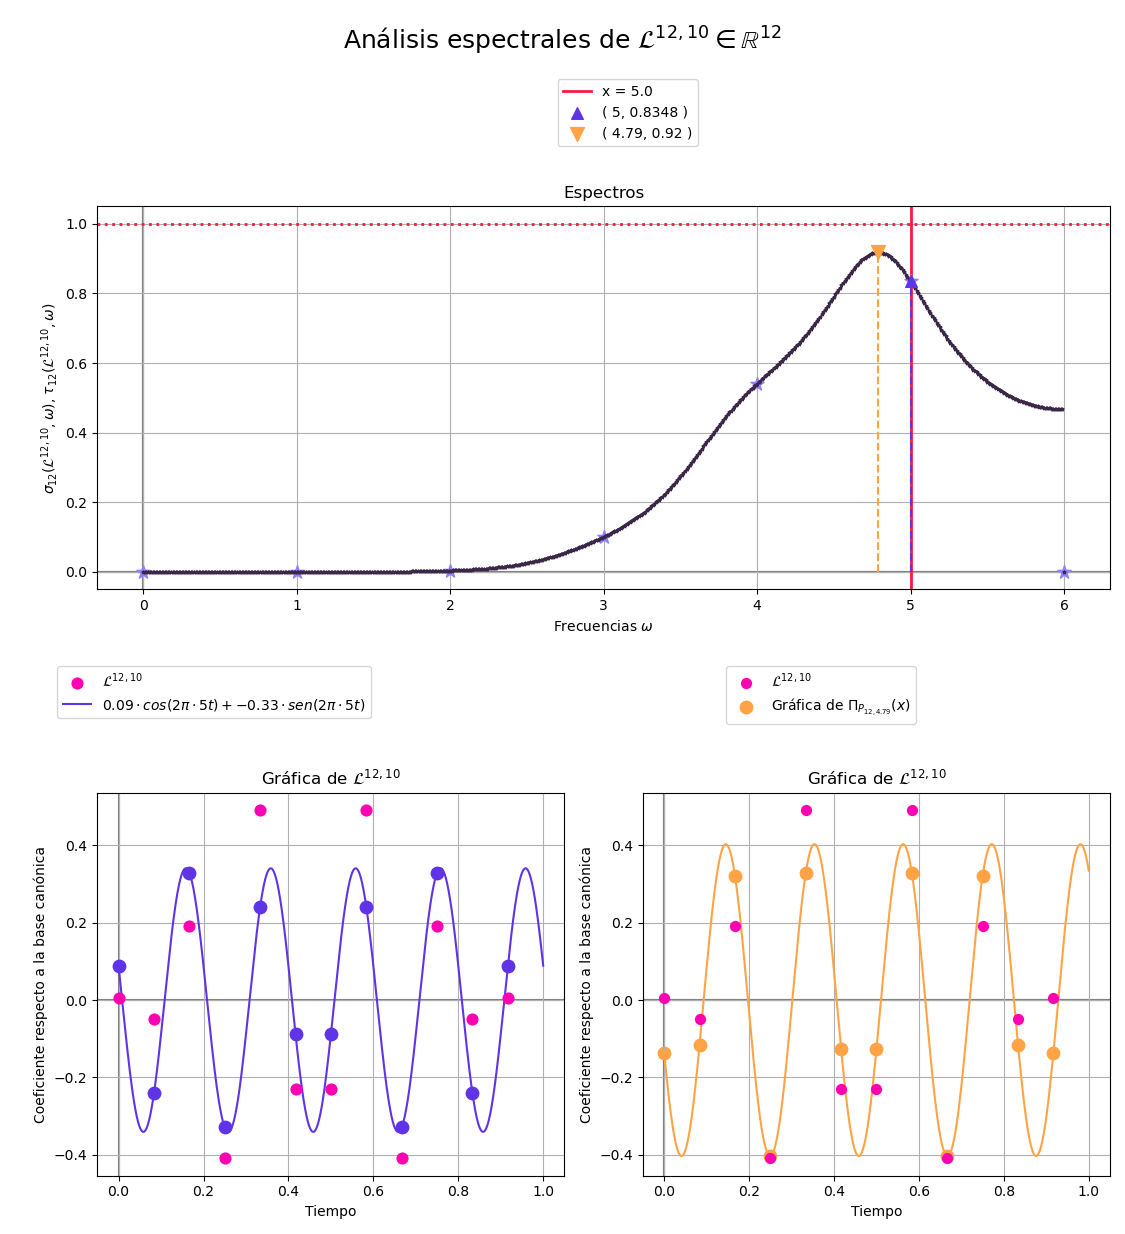
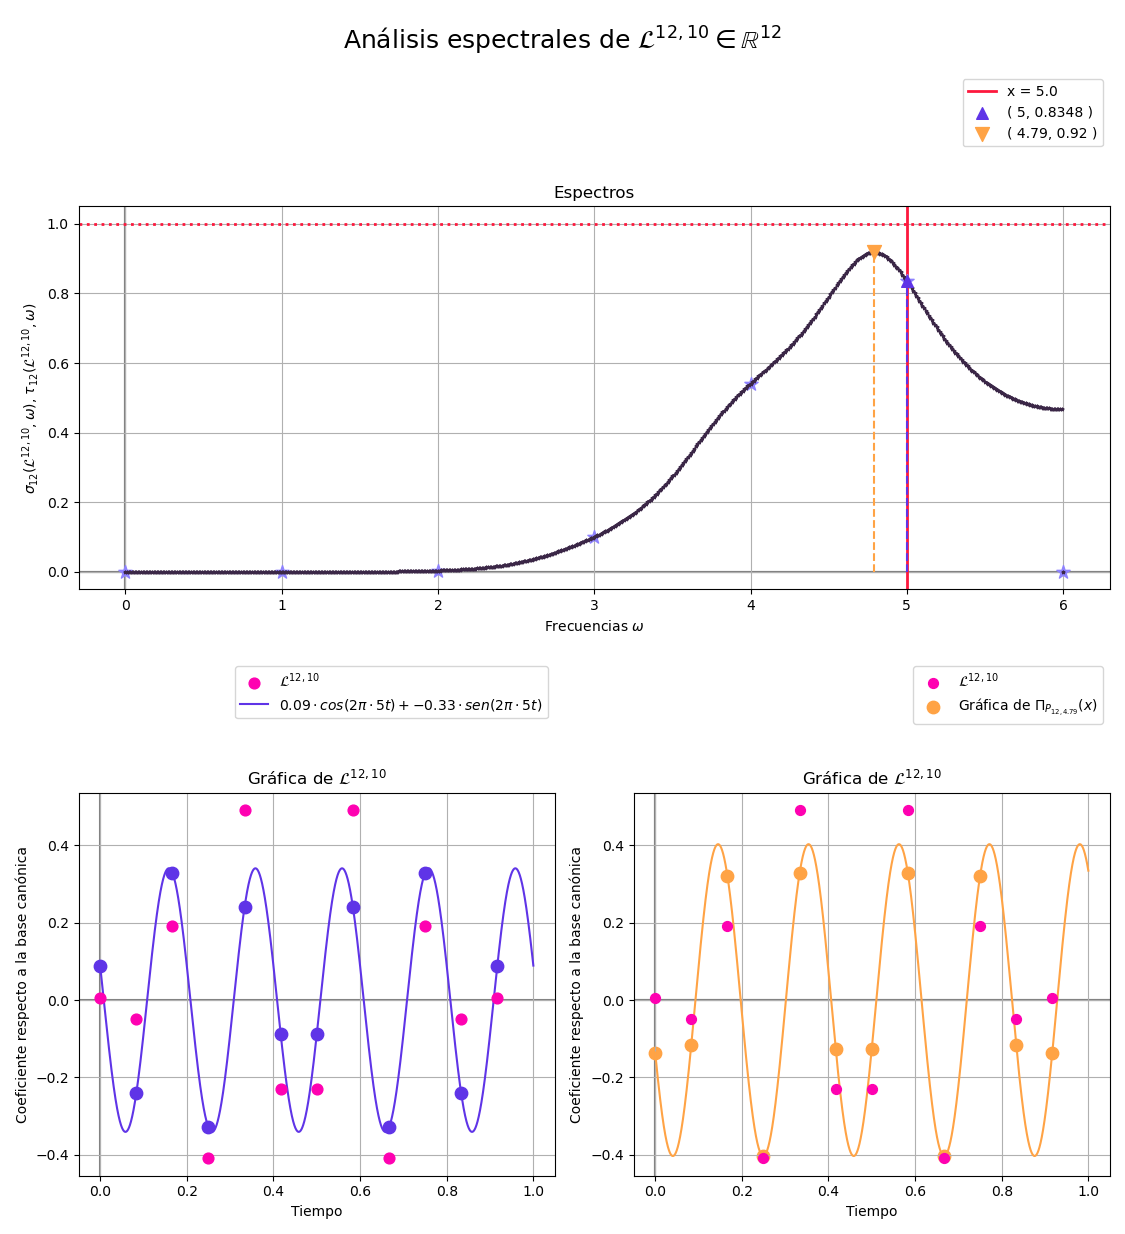
nuevo formato axis

diff --git a/scripts/analisis_espectrales.py b/scripts/analisis_espectrales.py
@@ -41,25 +41,26 @@ El orden de los colores es:
     8: Color para lineas de referencia
 """
 
-
-def formato_axis_derecha(axis):
+#Este formato de axis lo uso para los espectros
+def formato_axis(axis):
   """
   Agregando los elementos que me gustan a un axis
   """
   axis.axhline(y=0, color='gray', zorder = 0)
   axis.axvline(x=0, color='gray', zorder = 0)
   axis.grid(True)
-  axis.legend()
+  axis.legend(loc = 'best')
   #axis.legend(loc = 'lower right')
 
-def formato_axis_izquierda(axis):
+#Este formato de axis lo uso para las gráficas de los sinusoides
+def formato_axis_leyenda_exterior(axis):
   """
   Agregando los elementos que me gustan a un axis
   """
   axis.axhline(y=0, color='gray', zorder = 0)
   axis.axvline(x=0, color='gray', zorder = 0)
   axis.grid(True)
-  axis.legend(loc = 'best', bbox_to_anchor = (1, 1.35))
+  axis.legend(loc = 'best', bbox_to_anchor = (0.7, 1.35))
   #axis.legend(loc = 'upper left', frameon = False)
   
 #def formato_axis_legendaAfuera_2col(axis):
@@ -78,7 +79,15 @@ def formato_axis_izquierda(axis):
 #  axis.legend(bbox_to_anchor = (1.1, 1.05), loc = 'center left')
 
 
-#  ---------------------------------------- TDF ----------------------------------------
+"""
+#  ---------------------------------------- -- ----------------------------------------
+
+				CÁLCULOS PARA REALIZAR EL PRIMER
+			      ANÁLISIS ESPETRAL (BASADO EN LA TDF)
+
+#  ---------------------------------------- -- ----------------------------------------
+"""
+
 
 #Funciones coseno y coseno a partir de las que se construye todo lo que sigue.
 def c_w(n,t, w):
@@ -191,7 +200,7 @@ def coeficientes_tau(x):
       return taus
 
 
-def grafica_taus_axis(x, n, nombre, axis1, axis2, legend_derecha = True):
+def grafica_taus_axis(x, n, nombre, axis1, axis2):
   """
   'x' es un array de dimensión mayor a dos. 
   Esta función dibuja la gráfica de 'x' con dominio el tiempo, junto
@@ -248,12 +257,10 @@ def grafica_taus_axis(x, n, nombre, axis1, axis2, legend_derecha = True):
       axis1.scatter(dominio, [coef_cos * np.cos(2*pi*max_w*t)+coef_sen* np.sin(2*pi*max_w*t) for t in dominio], zorder=2, color = colores[3], s=80)
       axis1.plot(X, coef_cos * np.cos(2*pi*max_w*X) + coef_sen * np.sin(2*pi*max_w*X), color = colores[3], label = r'${{{0}}} \cdot cos(2 \pi \cdot {{{1}}} t) + {{{2}}} \cdot sen(2 \pi \cdot {{{1}}} t) $'.format(str(round(coef_cos,2)), str(max_w), str(round(coef_sen,2))))
   
-  if legend_derecha == True:
-    formato_axis_derecha(axis1)
-    formato_axis_derecha(axis2)
-  else:
-    formato_axis_izquierda(axis1)
-    formato_axis_izquierda(axis2)
+
+  formato_axis_leyenda_exterior(axis1)
+  formato_axis(axis2)
+
 
 
 
@@ -327,7 +334,7 @@ def amplDesfase_caso1(x,w):
     phi = (tan + 2*pi)/(2*pi)
   return A, phi
 
-def grafica_sigma_amplDesfase_axis_caso1(x, w, axis, label_derecha = True):
+def grafica_sigma_amplDesfase_axis_caso1(x, w, axis):
   """
   Se dibujan la gráfica de x junto con la de su proyección al espacio de frecuencias P_{w}.
 
@@ -348,10 +355,8 @@ def grafica_sigma_amplDesfase_axis_caso1(x, w, axis, label_derecha = True):
   
   X=np.arange(0, 1, 0.0001)
   axis.plot(X, coseno_amplDes(X), color=colores[2])
-  if label_derecha == True:
-    formato_axis_derecha(axis)
-  else:
-    formato_axis_izquierda(axis)
+
+  formato_axis_leyenda_exterior(axis)
 
 #Funciones para el caso 2
 
@@ -382,7 +387,7 @@ def amplDesfase_caso2(x,w):
   A = q/math.sqrt(n)
   return A, 0
 
-def grafica_sigma_amplDesfase_axis_caso2(x, w, axis, label_derecha = True):
+def grafica_sigma_amplDesfase_axis_caso2(x, w, axis):
   """
   Se dibujan la gráfica de x junto con la de su proyección al espacio de frecuencias P_{w}.
 
@@ -403,10 +408,8 @@ def grafica_sigma_amplDesfase_axis_caso2(x, w, axis, label_derecha = True):
   
   X=np.arange(0, 1, 0.0001)
   axis.plot(X, coseno_amplDes(X), color=colores[2])
-  if label_derecha == True:
-    formato_axis_derecha(axis)
-  else:
-    formato_axis_izquierda(axis)
+
+  formato_axis_leyenda_exterior(axis)
 
 
 def analisis_espectral_espaciosMonofrecuenciales(x, n, frecuencias, nombre, axis0, axis1, legenda_derecha = True):
@@ -451,12 +454,10 @@ def analisis_espectral_espaciosMonofrecuenciales(x, n, frecuencias, nombre, axis
   axis1.set_xlabel('Frecuencias ' + r'$\omega$')
   axis1.set_ylabel(r'$\sigma_{{{0}}}($'.format(str(n))+"${0}$".format(nombre)+ r'$, \omega)$' + r', $\tau_{{{0}}}($'.format(str(n))+"${0}$".format(nombre)+ r'$, \omega)$') 
 
-  if legenda_derecha == True:
-    formato_axis_derecha(axis0)
-    formato_axis_derecha(axis1)
-  else:
-    formato_axis_izquierda(axis0)
-    formato_axis_izquierda(axis1)
+
+  formato_axis_leyenda_exterior(axis0)
+  formato_axis(axis1)
+
 
  
 # ---------------------- Análisis espectrales para cualquier señal finita  -----------------------------------
@@ -494,7 +495,8 @@ def analisis_espectrales_guardarGrafica(x, frecuencias, nombre):
   """
   n = len(x) #TODO pasar como argumento a las otras funciones! 
   fig, axis = plt.subplots(2,2)
-  fig.set_size_inches(11.25, 12.34) 
+  #fig.set_size_inches(11.25, 12.34) #esta está muy bien!
+  fig.set_size_inches(14, 15.36)
   #fig.tight_layout(pad=0.4)
   
   analisis_espectral_espaciosMonofrecuenciales(x,n, frecuencias, nombre, axis[1,0], axis[1,1])
@@ -504,7 +506,7 @@ def analisis_espectrales_guardarGrafica(x, frecuencias, nombre):
   
   
 # ------------------------------------- Análisis espectrales de los PDL ------------------------------------
-def analisis_espectrales_PDL_mostrarGrafica(n, k, label_derecha = True):
+def analisis_espectrales_PDL_mostrarGrafica(n, k):
   """
   'x' (tipo array) tiene las mediciones.
   'frecuencias' (tipo array) es un array de frecuencias.
@@ -528,15 +530,16 @@ def analisis_espectrales_PDL_mostrarGrafica(n, k, label_derecha = True):
   ax2.axvline(x = k/2, color = colores[8], linewidth = 2, label = "x = " + str(k/2))
   ax2.axhline(y = 1, color = colores[8], linewidth = 2, linestyle = 'dotted')
 
-  grafica_taus_axis(x, n, nombre, ax0, ax2, label_derecha)
-  analisis_espectral_espaciosMonofrecuenciales(x, n, frecuencias, nombre, ax1, ax2, label_derecha)
+  grafica_taus_axis(x, n, nombre, ax0, ax2)
+  analisis_espectral_espaciosMonofrecuenciales(x, n, frecuencias, nombre, ax1, ax2)
 
   fig.suptitle('Análisis espectrales de ' + "${0}$".format(nombre) + r'$\in \mathbb{{R}}^{{{0}}}$'.format(str(n)), fontsize = 18)
-  fig.tight_layout(pad=0.2, w_pad=0.2, h_pad=0.5)
+  #fig.tight_layout(pad=0.2, w_pad=0.2, h_pad=0.5)
+  fig.tight_layout()
   #fig.tight_layout(top=0.914, bottom=0.058, left=0.041, right=0.992, hspace=0.202, wspace=0.09)
   return plt.show()
 
-def analisis_espectrales_PDL_guardarGrafica(n,k, label_derecha = True):
+def analisis_espectrales_PDL_guardarGrafica(n,k):
   """
   'x' (tipo array) tiene las mediciones.
   'frecuencias' (tipo array) es un array de frecuencias.
@@ -557,8 +560,8 @@ def analisis_espectrales_PDL_guardarGrafica(n,k, label_derecha = True):
   ax2.axvline(x = k/2, color = colores[8], linewidth = 2, label = "x = " + str(k/2))
   ax2.axhline(y = 1, color = colores[8], linewidth = 2, linestyle = 'dotted')
 
-  grafica_taus_axis(x, n, nombre, ax0, ax2, label_derecha)
-  analisis_espectral_espaciosMonofrecuenciales(x, n, frecuencias, nombre, ax1, ax2, label_derecha)
+  grafica_taus_axis(x, n, nombre, ax0, ax2)
+  analisis_espectral_espaciosMonofrecuenciales(x, n, frecuencias, nombre, ax1, ax2)
 
   fig.suptitle('Análisis espectrales de ' + "${0}$".format(nombre) + r'$\in \mathbb{{R}}^{{{0}}}$'.format(str(n)), fontsize = 18)
   #fig.tight_layout(pad=0.2, w_pad=0.2, h_pad=0.5)
@@ -601,7 +604,7 @@ def calculo_tauMax(x):
     frec_max = taus.index(tau_max)
     return frec_max
 
-def graficar_analisis_espectralPDL_global(n, label_derecha = True):
+def graficar_analisis_espectralPDL_global(n):
     fig, axis = plt.subplots(2,1)
     dominio_grados = [k for k in range(n)]
     X = np.arange(0,n,0.05)
@@ -623,12 +626,9 @@ def graficar_analisis_espectralPDL_global(n, label_derecha = True):
     axis[0].plot(X, b0+X*m0, color = colores[8], label = r'RMC: $l(t) = {{{0}}}t + {{{1}}}$'.format(str(round(m0,2)), str(round(b0,2))))
     plt.suptitle("Frecuencias máximas encontradas en los análisis espectrales \n de los PDL de dimensión "+str(n), fontsize = 14)
 
-    if label_derecha == True:
-        formato_axis_derecha(axis[0])
-        formato_axis_derecha(axis[1])
-    else:
-        formato_axis_izquierda(axis[0])
-        formato_axis_izquierda(axis[1])
+    formato_axis(axis[0])
+    formato_axis(axis[1])
+
 
     axis[0].set_xlabel('Grado $0 \leq k \leq {0}$'.format(str(n-1)))
     axis[1].set_xlabel('Grado $0 \leq k \leq {0}$'.format(str(n-1)))
@@ -703,7 +703,7 @@ def grafica_3d_n_k_FP(N):
 
 
 
-def grafica_analisisGlobal_k_fijo(k, label_derecha = True):
+def grafica_analisisGlobal_k_fijo(k):
     #TODO reescribir. Mejor guarda los valores en arrays para que puedas buscar máximos y mínimos y agustar
     #la longitud del y-eje.
     """
@@ -737,10 +737,9 @@ def grafica_analisisGlobal_k_fijo(k, label_derecha = True):
         graficando_puntos(69, True)
         axis.axhline(y = k/2, color = colores[8], label = r'$y = \frac{{ {{{0}}}  }}{{2}}$'.format(str(k)))
 
-    if label_derecha == True:
-        formato_axis_derecha(axis)
-    else:
-        formato_axis_izquierda(axis)
+
+    formato_axis(axis)
+
 
     plt.suptitle('Gráficas de las frecuencias principales FP para los \n PDL de grado k = '+str(k))
     axis.set_xlim(k+0.5, 69.5)
@@ -788,7 +787,7 @@ def grafica_nube_b0m0_b1m1():
     for i in range(2):
         axis[i].set_xlim(-1.5, 0.5)
         axis[i].set_ylim(0.3, 0.65)
-        formato_axis_derecha(axis[i])
+        formato_axis(axis[i])
 
     plt.show()
 
@@ -886,7 +885,8 @@ if __name__=='__main__':
   #analisis_espectrales_PDL_mostrarGrafica(3,2)
   #analisis_espectrales_PDL_mostrarGrafica(3,1)
   #analisis_espectrales_PDL_mostrarGrafica(8,1)
-  #analisis_espectrales_PDL_mostrarGrafica(34,1)
+  analisis_espectrales_PDL_mostrarGrafica(39,15)
+  analisis_espectrales_PDL_guardarGrafica(34,20)
   #analisis_espectrales_PDL_mostrarGrafica(39, 15)
   #analisis_espectrales_PDL_mostrarGrafica(39, 8)
   #analisis_espectrales_PDL_mostrarGrafica(39, 5)
@@ -953,7 +953,7 @@ if __name__=='__main__':
   #analisis_espectrales_mostrarGrafica(x, frecuencias, 'x')
 
   #analisis_espectrales_PDL_guardarGrafica(12,11)
-  analisis_espectrales_PDL_guardarGrafica(12,10, False)
+  #analisis_espectrales_PDL_guardarGrafica(12,10, False)
   
 
  
